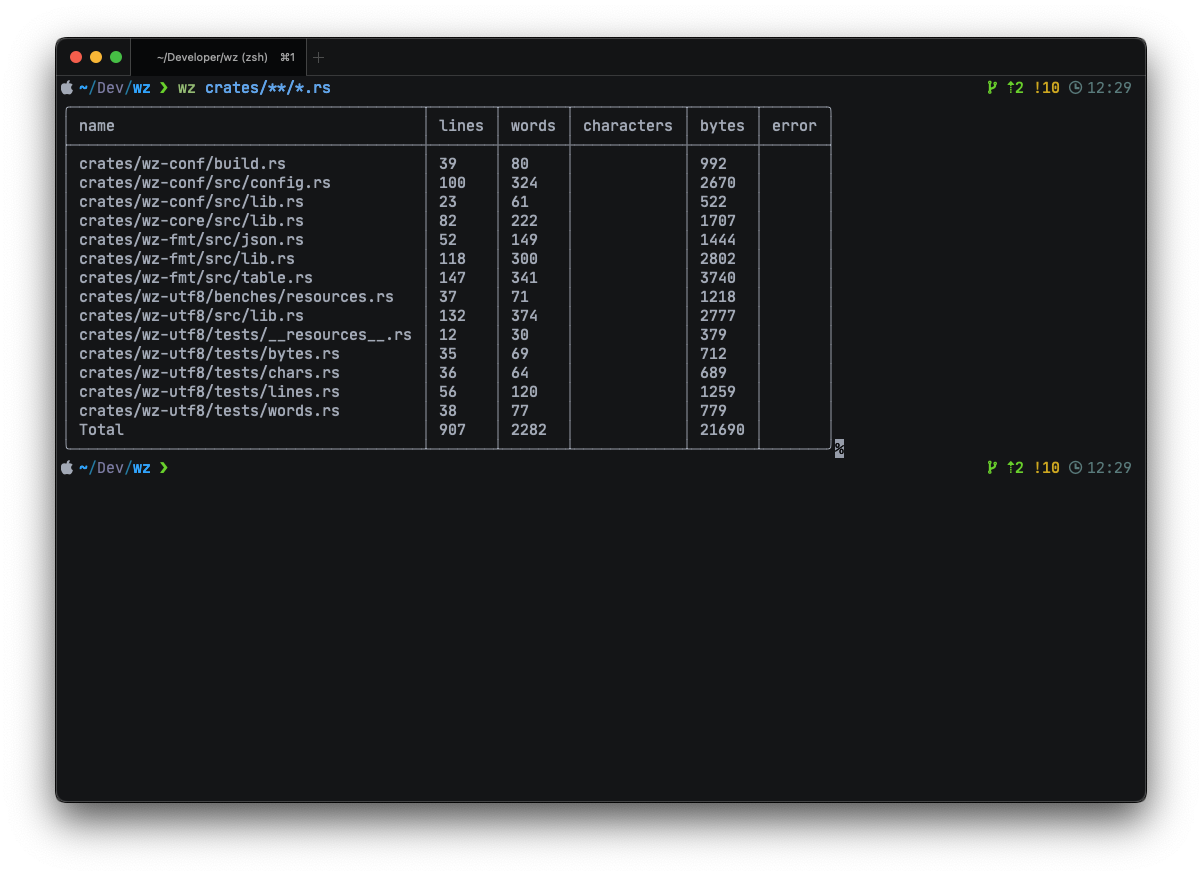
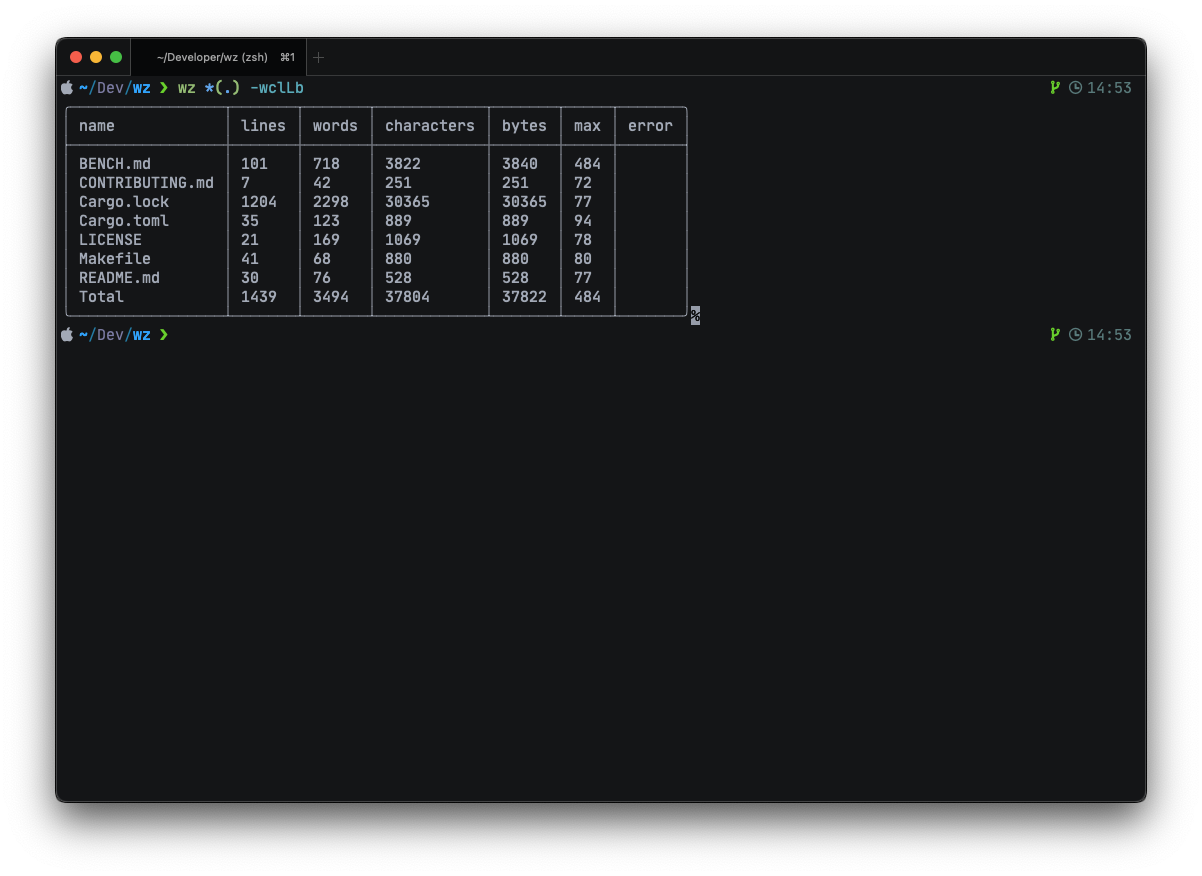
docs: Updated README and screenshot

diff --git a/src/main.rs b/src/main.rs
@@ -5,6 +5,36 @@
 //!
 //! ![wz](resources/wz.png)
 //!
+//! # Features
+//!
+//! ## Human readable and machine readable formats
+//!
+//! Output the results on a nice table, or pipe them to another program
+//! that reads JSON. Stop messing with `sed` and `awk`!
+//!
+//! ```sh
+//! $ wz *(.) --output json  
+//! {"total":{"lines":1439,"words":3494,"bytes":37822},"summary":{"Cargo.lock":{"Ok":{"lines":1204,"words":2298,"bytes":30365}},"Cargo.toml":{"Ok":{"lines":35,"words":123,"bytes":889}},"LICENSE":{"Ok":{"lines":21,"words":169,"bytes":1069}},"Makefile":{"Ok":{"lines":41,"words":68,"bytes":880}},"README.md":{"Ok":{"lines":30,"words":76,"bytes":528}},"BENCH.md":{"Ok":{"lines":101,"words":718,"bytes":3840}},"CONTRIBUTING.md":{"Ok":{"lines":7,"words":42,"bytes":251}}}}%
+//! ```
+//!
+//! ## Multiple encoding support
+//!
+//! Characters and line lengths are count using UTF8 or UTF16[^1] encoding,
+//! meaning that files with non ASCII characters are count correctly
+//!
+//! ## Multiple line breaks support
+//!
+//! Got a file from an old Macintosh? Change the line break to carriage
+//! returns ('\r')
+//!
+//! ```sh
+//! wz macintosh.txt -n cr
+//! ```
+//!
+//! ## Multithreading
+//!
+//! `wz` uses [rayon] under the hood, meaning that files are counted in parallel
+//!
 //! # Installation
 //!
 //! ## Cargo
@@ -22,10 +52,11 @@
 //!
 //! # Usage
 //!
-//! `wz` is not backwards compatible with `wc`, but most command line options are
-//! left intact
-//!
 //! Run `wz --help` to see the full list of options
+//!
+//! [rayon]: https://crates.io/crates/rayon
+//!
+//! [^1]: UTF16 support coming later
 
 use std::{error::Error, io::stdout};
 

diff --git a/README.md b/README.md
@@ -7,6 +7,36 @@ output, written in Rust
 
 ![wz](resources/wz.png)
 
+# Features
+
+## Human readable and machine readable formats
+
+Output the results on a nice table, or pipe them to another program
+that reads JSON. Stop messing with `sed` and `awk`!
+
+```sh
+$ wz *(.) --output json  
+{"total":{"lines":1439,"words":3494,"bytes":37822},"summary":{"Cargo.lock":{"Ok":{"lines":1204,"words":2298,"bytes":30365}},"Cargo.toml":{"Ok":{"lines":35,"words":123,"bytes":889}},"LICENSE":{"Ok":{"lines":21,"words":169,"bytes":1069}},"Makefile":{"Ok":{"lines":41,"words":68,"bytes":880}},"README.md":{"Ok":{"lines":30,"words":76,"bytes":528}},"BENCH.md":{"Ok":{"lines":101,"words":718,"bytes":3840}},"CONTRIBUTING.md":{"Ok":{"lines":7,"words":42,"bytes":251}}}}%
+```
+
+## Multiple encoding support
+
+Characters and line lengths are count using UTF8 or UTF16[^1] encoding,
+meaning that files with non ASCII characters are count correctly
+
+## Multiple line breaks support
+
+Got a file from an old Macintosh? Change the line break to carriage
+returns ('\r')
+
+```sh
+wz macintosh.txt -n cr
+```
+
+## Multithreading
+
+`wz` uses [rayon] under the hood, meaning that files are counted in parallel
+
 # Installation
 
 ## Cargo
@@ -22,9 +52,10 @@ See [BENCH.md](BENCH.md)
 
 # Usage
 
-`wz` is not backwards compatible with `wc`, but most command line options are
-left intact
-
 Run `wz --help` to see the full list of options
+
+[rayon]: https://crates.io/crates/rayon
+
+[^1]: UTF16 support coming later
 
 <!-- cargo-sync-readme end -->
